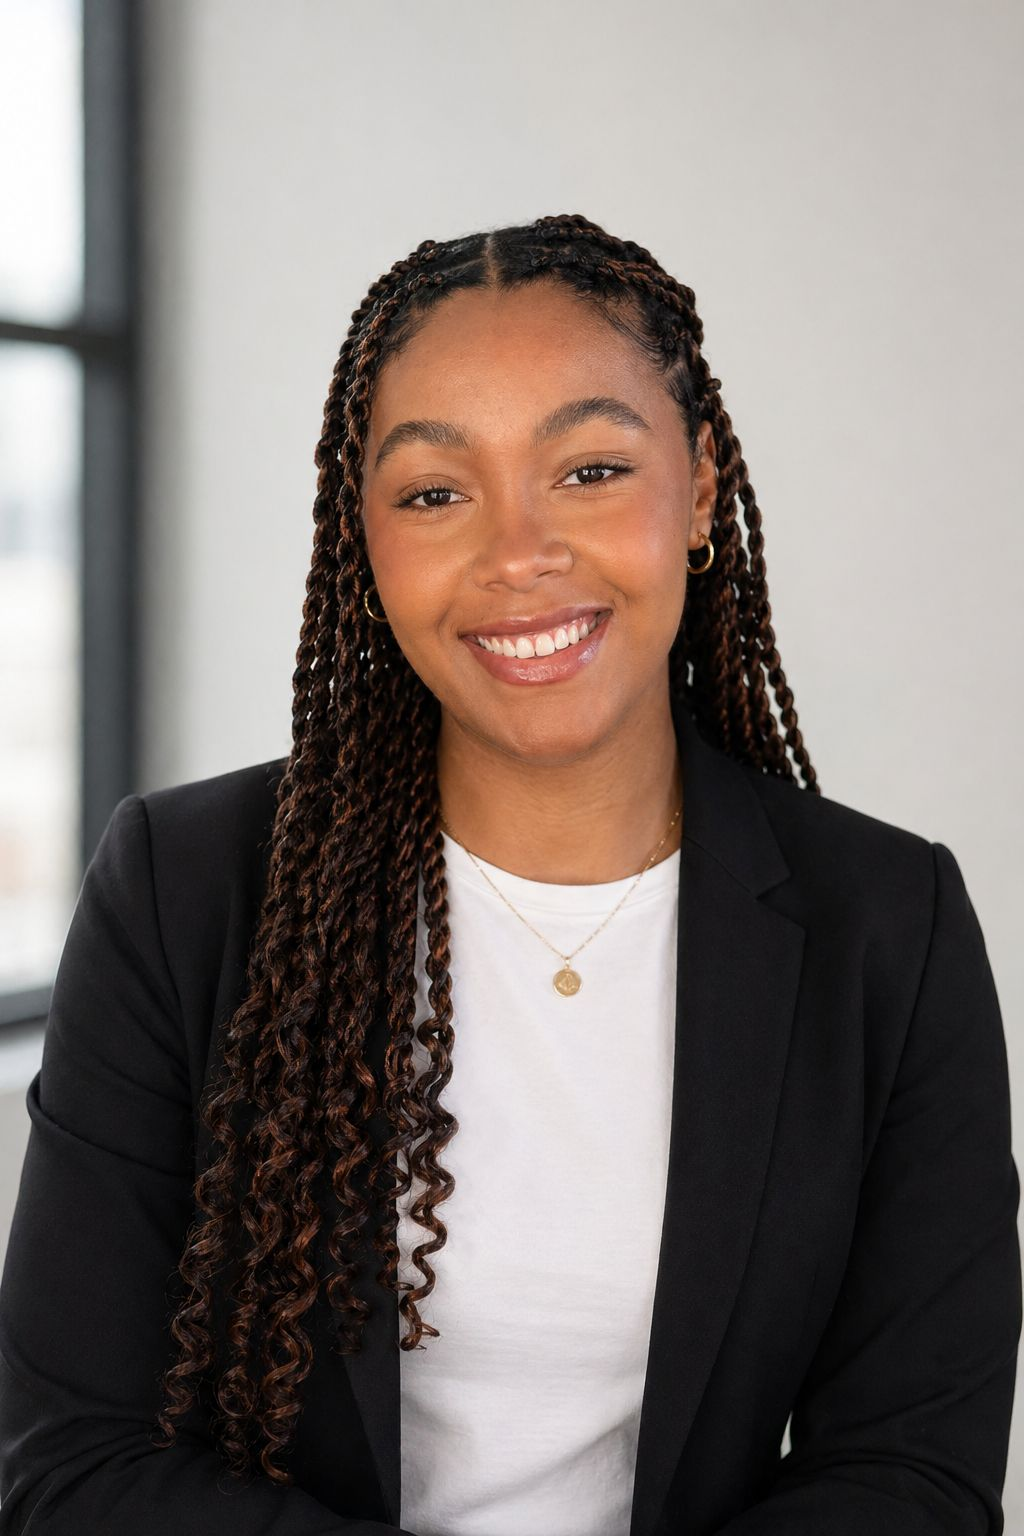
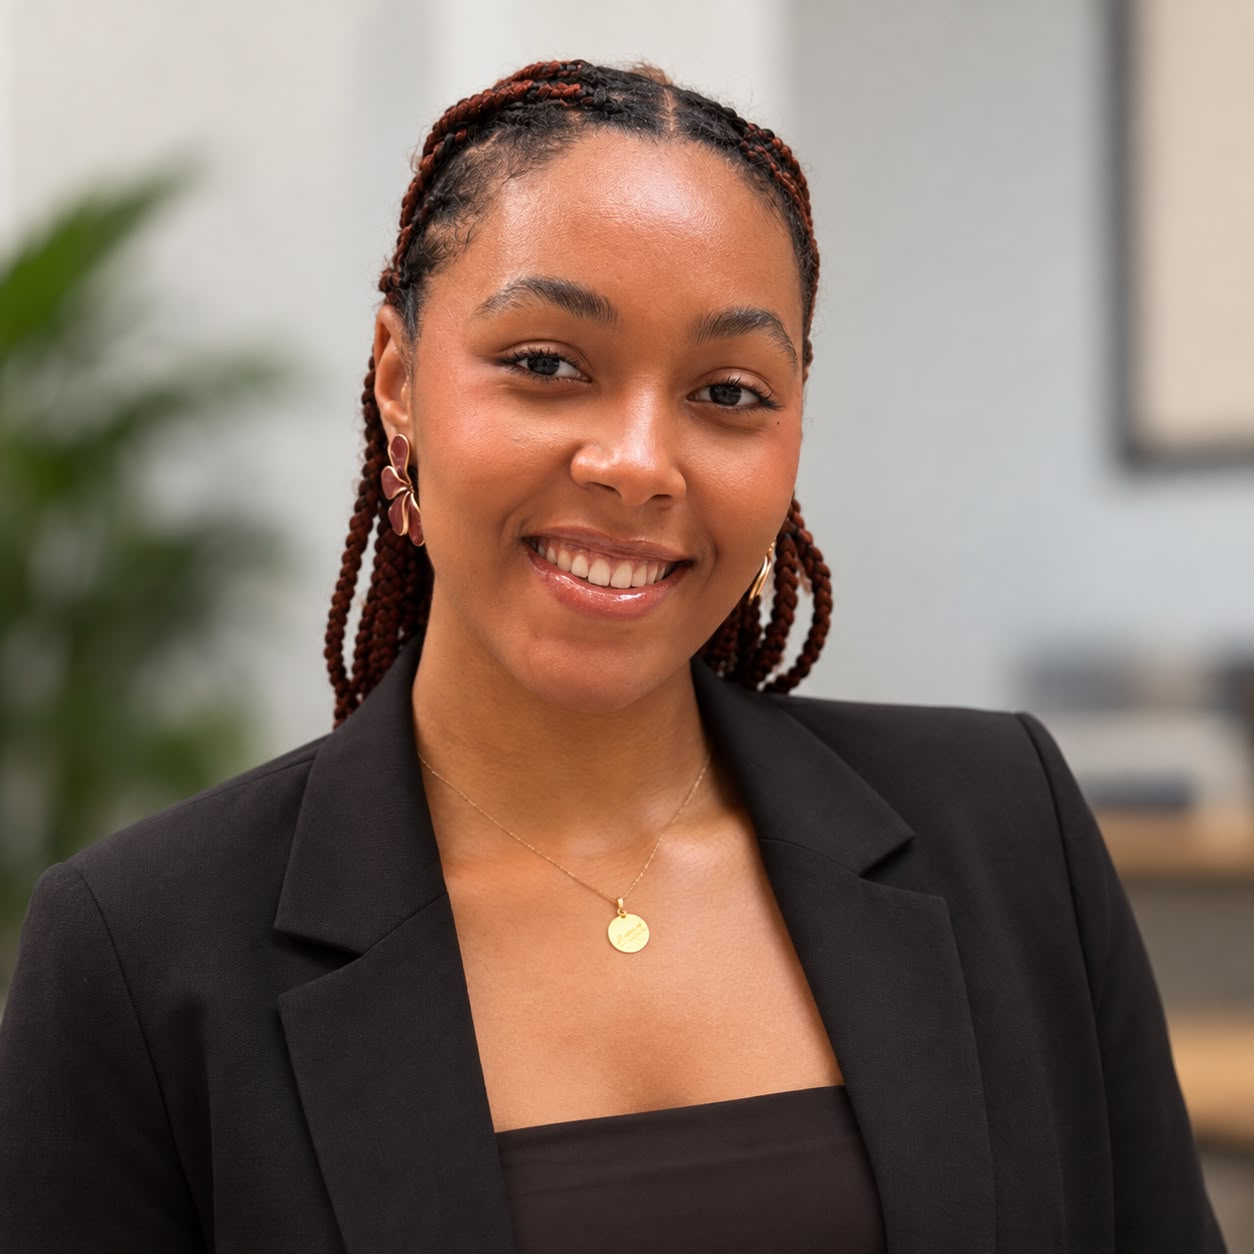
Mise à jour textes, photo de profil et suppression de l'indicateur Scroll (#1)
* Update hero/about/education texts, ACF end date and profile photo

Claude-Session: https://claude.ai/code/session_01LU1Fx7Scv2Moh3BpNmaaWe

* Remove hero scroll indicator

Claude-Session: https://claude.ai/code/session_01LU1Fx7Scv2Moh3BpNmaaWe

---------

diff --git a/index.html b/index.html
@@ -74,9 +74,6 @@
     .btn-magic:hover{transform:translateY(-3px) scale(1.03);box-shadow:0 16px 48px rgba(168,85,247,.35);}
     .btn-ghost{background:rgba(255,255,255,.07);border:1px solid rgba(255,255,255,.14);color:rgba(255,255,255,.8);backdrop-filter:blur(20px);}
     .btn-ghost:hover{background:rgba(255,255,255,.12);color:#fff;transform:translateY(-3px);}
-    .hero-scroll{position:absolute;bottom:36px;left:50%;transform:translateX(-50%);display:flex;flex-direction:column;align-items:center;gap:8px;color:rgba(255,255,255,.25);font-size:11px;letter-spacing:.12em;text-transform:uppercase;animation:fadeIn 1s ease 1.2s forwards;opacity:0;}
-    .scroll-bar{width:1.5px;height:52px;background:linear-gradient(to bottom,rgba(255,255,255,.5),transparent);animation:scrollAnim 2.4s ease-in-out infinite;}
-    @keyframes scrollAnim{0%,100%{transform:scaleY(1);opacity:.4;}50%{transform:scaleY(.5);opacity:.9;}}
 
     /* ── SECTIONS ── */
     .section{padding:110px 48px;max-width:1240px;margin:0 auto;}
@@ -402,16 +399,15 @@
 
   <section id="hero">
     <div class="hero-inner">
-      <div class="hero-badge"><span class="star">✦</span> <span data-i18n="hero.badge">Community Manager · Marketing · Expériences Client</span></div>
+      <div class="hero-badge"><span class="star">✦</span> <span data-i18n="hero.badge">Community Manager · Marketing · Expérience Client</span></div>
       <h1 class="hero-name">Sandrine<br><span class="gradient-text">Kellam Nonga</span></h1>
-      <p class="hero-sub" data-i18n="hero.sub">Master Marketing & Expériences Client · EMLV Paris La Défense</p>
+      <p class="hero-sub" data-i18n="hero.sub">À la recherche d'une nouvelle opportunité</p>
       <p class="hero-disney" data-i18n="hero.tagline">Passionnée de voyage · Mode · Maquillage · Disney</p>
       <div class="hero-cta">
         <a href="#projects" class="btn btn-magic" data-i18n="hero.cta1">✦ Découvrir mes projets</a>
         <a href="#contact-section" class="btn btn-ghost" data-i18n="hero.cta2">Me contacter →</a>
       </div>
     </div>
-    <div class="hero-scroll"><span>Scroll</span><div class="scroll-bar"></div></div>
   </section>
 
   <section class="section" id="about">
@@ -424,7 +420,7 @@
         </div>
       </div>
       <div class="about-content">
-        <p class="about-p" data-i18n-html="about.p1">Diplômée bac +3 de l'<strong>ESI Business School</strong> (Green, Social & Digital Business), j'ai suivi un Master <strong>Marketing & Expériences Client</strong> à l'EMLV (2024 → 2026).</p>
+        <p class="about-p" data-i18n-html="about.p1">Diplômée bac +3 de l'<strong>ESI Business School</strong> (Green, Social & Digital Business) et d'un master en <strong>marketing et expérience client</strong> à l'EMLV, je suis désormais à la recherche d'une nouvelle opportunité professionnelle.</p>
         <p class="about-p" data-i18n-html="about.p2">Intéressée par l'univers de la <strong>communication et du marketing</strong>, je crois qu'une marque mérite d'être racontée comme une histoire : avec soin, cohérence et émotion. Du branding au social media, en passant par le marketing direct, je mets cette philosophie au service de chaque projet.</p>
         <div class="about-tags">
           <span class="tag gold-tag">🏰 Disney lover</span>
@@ -433,7 +429,7 @@
           <span class="tag">Marketing digital</span>
           <span class="tag">Canva</span>
           <span class="tag">RSE</span>
-          <span class="tag" data-i18n="about.tag.exp">Expériences client</span>
+          <span class="tag" data-i18n="about.tag.exp">Expérience client</span>
           <span class="tag">Storytelling</span>
         </div>
         <div class="stats-row">
@@ -453,7 +449,7 @@
   <section class="section" id="experience">
     <div class="rev"><p class="s-label" data-i18n="exp.label">✦ Parcours professionnel</p><h2 class="s-title" data-i18n="exp.title">Expériences Professionnelles</h2></div>
     <div class="timeline">
-      <div class="ti rev" style="transition-delay:.05s"><div class="ti-dot"></div><div class="ti-card"><div class="ti-date" data-i18n="exp.acf.date">Septembre 2023 — 2026 · Alternance</div><div class="ti-company">Action contre la Faim — Montreuil</div><div class="ti-role" data-i18n="exp.acf.role">Assistante collecte 360 — Marketing direct</div><div class="ti-points"><div class="ti-pt" data-i18n="exp.acf.pt1">Gestion canal télémarketing : lancement et suivi de campagnes, scripts, guide d'objections</div><div class="ti-pt" data-i18n="exp.acf.pt2">Canal mailing : gestion campagnes print, briefs, vérification BAT/BAR</div><div class="ti-pt" data-i18n="exp.acf.pt3">Gestion financière : réalisation de DA, bons de commande, suivi budgétaire</div><div class="ti-pt" data-i18n="exp.acf.pt4">Refonte Welcome Pack, formation des équipes prestataires, statistiques hebdomadaires</div><div class="ti-pt" data-i18n="exp.acf.pt5">Outils : PowerPoint, Excel, Canva, UBW, Word</div></div></div></div>
+      <div class="ti rev" style="transition-delay:.05s"><div class="ti-dot"></div><div class="ti-card"><div class="ti-date" data-i18n="exp.acf.date">Septembre 2023 — Septembre 2026 · Alternance</div><div class="ti-company">Action contre la Faim — Montreuil</div><div class="ti-role" data-i18n="exp.acf.role">Assistante collecte 360 — Marketing direct</div><div class="ti-points"><div class="ti-pt" data-i18n="exp.acf.pt1">Gestion canal télémarketing : lancement et suivi de campagnes, scripts, guide d'objections</div><div class="ti-pt" data-i18n="exp.acf.pt2">Canal mailing : gestion campagnes print, briefs, vérification BAT/BAR</div><div class="ti-pt" data-i18n="exp.acf.pt3">Gestion financière : réalisation de DA, bons de commande, suivi budgétaire</div><div class="ti-pt" data-i18n="exp.acf.pt4">Refonte Welcome Pack, formation des équipes prestataires, statistiques hebdomadaires</div><div class="ti-pt" data-i18n="exp.acf.pt5">Outils : PowerPoint, Excel, Canva, UBW, Word</div></div></div></div>
       <div class="ti rev" style="transition-delay:.1s"><div class="ti-dot"></div><div class="ti-card"><div class="ti-date">Juin — Août 2023</div><div class="ti-company">VTCSR — Roissy-en-Brie</div><div class="ti-role" data-i18n="exp.vtcsr.role">Responsable administrative et communication</div><div class="ti-points"><div class="ti-pt" data-i18n="exp.vtcsr.pt1">Création d'une maquette de site web et cartes de visite</div><div class="ti-pt" data-i18n="exp.vtcsr.pt2">Gestion comptabilité, planning, démarchage et liaison bancaire</div><div class="ti-pt" data-i18n="exp.vtcsr.pt3">Outils : Editor X, Canva, Excel, plateformes VTC</div></div></div></div>
       <div class="ti rev" style="transition-delay:.15s"><div class="ti-dot"></div><div class="ti-card"><div class="ti-date" data-i18n="exp.aphp.date">Août 2022 · Stage</div><div class="ti-company">HU Paris Sud — APHP Kremlin-Bicêtre</div><div class="ti-role" data-i18n="exp.aphp.role">Assistante administrative</div><div class="ti-points"><div class="ti-pt" data-i18n="exp.aphp.pt1">Gestion administrative : envoi et réception de courriers</div><div class="ti-pt" data-i18n="exp.aphp.pt2">Gestion des dossiers patients via Orbis, Excel et Word</div></div></div></div>
       <div class="ti rev" style="transition-delay:.2s"><div class="ti-dot"></div><div class="ti-card"><div class="ti-date" data-i18n="exp.biotech.date">Juin — Juillet 2022 · Stage</div><div class="ti-company">BioTech USA — Claye-Souilly</div><div class="ti-role" data-i18n="exp.biotech.role">Vendeuse polyvalente stagiaire</div><div class="ti-points"><div class="ti-pt" data-i18n="exp.biotech.pt1">Conseil client, merchandising, facing, gestion de caisse</div><div class="ti-pt" data-i18n="exp.biotech.pt2">Gestion inventaire, commandes et livraisons (Point relais UPS)</div></div></div></div>
@@ -465,7 +461,7 @@
     <div class="rev"><p class="s-label" data-i18n="skills.label">✦ Savoir-faire</p><h2 class="s-title" data-i18n="skills.title">Outils & Compétences</h2></div>
     <div class="skills-grid">
       <div class="sk-card rev" style="transition-delay:.05s"><div class="sk-head"><div class="sk-icon">🎨</div><div class="sk-name" data-i18n="sk.design.name">Création & Design graphique</div></div><div class="sk-pills"><span class="pill g">Canva</span><span class="pill">Adobe Express</span><span class="pill">Editor X</span><span class="pill">WordPress</span><span class="pill" data-i18n="sk.charte">Charte graphique</span><span class="pill" data-i18n="sk.identity">Identité visuelle</span><span class="pill" data-i18n="sk.print">Supports print</span></div></div>
-      <div class="sk-card rev" style="transition-delay:.1s"><div class="sk-head"><div class="sk-icon">📱</div><div class="sk-name" data-i18n="sk.marketing.name">Marketing & Communication</div></div><div class="sk-pills"><span class="pill g">Community Management</span><span class="pill" data-i18n="sk.digital.mkt">Marketing digital</span><span class="pill" data-i18n="sk.direct.mkt">Marketing direct</span><span class="pill">Social Media</span><span class="pill">Branding</span><span class="pill">Storytelling</span><span class="pill" data-i18n="sk.rse">RSE</span><span class="pill" data-i18n="sk.exp.client">Expériences client</span></div></div>
+      <div class="sk-card rev" style="transition-delay:.1s"><div class="sk-head"><div class="sk-icon">📱</div><div class="sk-name" data-i18n="sk.marketing.name">Marketing & Communication</div></div><div class="sk-pills"><span class="pill g">Community Management</span><span class="pill" data-i18n="sk.digital.mkt">Marketing digital</span><span class="pill" data-i18n="sk.direct.mkt">Marketing direct</span><span class="pill">Social Media</span><span class="pill">Branding</span><span class="pill">Storytelling</span><span class="pill" data-i18n="sk.rse">RSE</span><span class="pill" data-i18n="sk.exp.client">Expérience client</span></div></div>
       <div class="sk-card rev" style="transition-delay:.15s"><div class="sk-head"><div class="sk-icon">💼</div><div class="sk-name" data-i18n="sk.office.name">Outils bureautiques</div></div><div class="sk-pills"><span class="pill g">Excel</span><span class="pill g">PowerPoint</span><span class="pill">Word</span><span class="pill">UBW</span><span class="pill b">Power BI</span><span class="pill" data-i18n="sk.budget">Gestion budgétaire</span><span class="pill">Pack Office</span></div></div>
       <div class="sk-card rev" style="transition-delay:.2s"><div class="sk-head"><div class="sk-icon">🌍</div><div class="sk-name" data-i18n="sk.languages.name">Langues & soft skills</div></div><div class="sk-pills"><span class="pill g" data-i18n="sk.lang.fr">Français — Natif</span><span class="pill b" data-i18n="skills.lang.en">Anglais — C1</span><span class="pill"> TOIEC - 965/990 </span><span class="pill" data-i18n="sk.lang.es">Espagnol — Intermédiaire</span><span class="pill" data-i18n="sk.oral">Communication orale</span><span class="pill" data-i18n="sk.problem">Résolution de problèmes</span><span class="pill" data-i18n="sk.project">Gestion de projet</span></div></div>
     </div>
@@ -474,7 +470,7 @@
   <section class="section" id="education">
     <div class="rev"><p class="s-label" data-i18n="edu.label">✦ Formation</p><h2 class="s-title" data-i18n="edu.title">Parcours académique</h2></div>
     <div class="edu-grid">
-      <div class="edu-card rev" style="transition-delay:.05s"><div class="edu-yr" data-i18n="edu.emlv.yr">2024 → 2026 · Cursus achevé</div><div class="edu-school">EMLV — Courbevoie</div><div class="edu-dip" data-i18n="edu.emlv.dip">Master Marketing & Expériences Client</div><div class="edu-detail" data-i18n="edu.emlv.detail">Marketing produits & services, innovation, design thinking, leviers marketing, stratégie omnicanale, négociations, management du retail, business ethics.</div><div class="edu-badge" data-i18n="edu.emlv.badge">✦ Master 2</div></div>
+      <div class="edu-card rev" style="transition-delay:.05s"><div class="edu-yr" data-i18n="edu.emlv.yr">2024 → 2026 · Cursus achevé</div><div class="edu-school">EMLV — Courbevoie</div><div class="edu-dip" data-i18n="edu.emlv.dip">Master Marketing & Expérience Client</div><div class="edu-detail" data-i18n="edu.emlv.detail">Marketing produits & services, innovation, design thinking, leviers marketing, stratégie omnicanale, négociations, management du retail, business ethics.</div><div class="edu-badge" data-i18n="edu.emlv.badge">✦ Master 2</div></div>
       <div class="edu-card rev" style="transition-delay:.1s"><div class="edu-yr" data-i18n="edu.esi.yr">2021 → 2024 · Diplômée</div><div class="edu-school">ESI Business School</div><div class="edu-dip">Bachelor Green, Social & Digital Business</div><div class="edu-detail" data-i18n="edu.esi.detail">Boulogne-Billancourt. Marketing opérationnel, management, RSE. Projets de groupe avec soutenances orales récurrentes.</div><div class="edu-badge" data-i18n="edu.esi.badge">✦ Bac +3 obtenu</div></div>
       <div class="edu-card rev" style="transition-delay:.15s"><div class="edu-yr" data-i18n="edu.ndf.yr">2006 → 2021 · Diplômée</div><div class="edu-school">Notre-Dame de France — Paris XIII</div><div class="edu-dip" data-i18n="edu.ndf.dip">Baccalauréat Général</div><div class="edu-detail" data-i18n="edu.ndf.detail">Spécialités : humanités, SES, LLCER. Voyages linguistiques en Angleterre et en Espagne.</div><div class="edu-badge" data-i18n="edu.ndf.badge">🏆 Mention Bien</div></div>
     </div>
@@ -493,7 +489,7 @@
     <div class="contact-glass rev">
       <span class="c-emoji">📞</span>
       <h3 class="c-title" data-i18n="contact.h3">Contacte-moi !</h3>
-      <p class="c-sub" data-i18n="contact.sub">Issue du Master Marketing & Expériences Client de l'EMLV, prête à apporter ma créativité et ma passion à votre équipe ✨</p>
+      <p class="c-sub" data-i18n="contact.sub">Issue du Master Marketing & Expérience Client de l'EMLV, prête à apporter ma créativité et ma passion à votre équipe ✨</p>
       <div class="c-items">
         <a href="tel:0782341807" class="c-item"><span>📞</span><span>07 82 34 18 07</span></a>
         <a href="mailto:sandrinekellamnonga@gmail.com" class="c-item"><span>✉</span><span>sandrinekellamnonga@gmail.com</span></a>
@@ -977,17 +973,17 @@ var I18N = {
     'nav.skills':     'Compétences',
     'nav.contact':    'Contact',
 
-    'hero.badge':   'Community Manager · Marketing · Expériences Client',
-    'hero.sub':     'Master Marketing & Expériences Client · EMLV Paris La Défense',
+    'hero.badge':   'Community Manager · Marketing · Expérience Client',
+    'hero.sub':     'À la recherche d\'une nouvelle opportunité',
     'hero.tagline': 'Passionnée de voyage · Mode · Maquillage · Disney',
     'hero.cta1':    '✦ Découvrir mes projets',
     'hero.cta2':    'Me contacter →',
 
     'about.label':    '✦ Qui suis-je',
     'about.title':    'Créative, ambitieuse, passionnée',
-    'about.p1':       'Diplômée bac +3 de l\'<strong>ESI Business School</strong> (Green, Social & Digital Business), j\'ai suivi un Master <strong>Marketing & Expériences Client</strong> à l\'EMLV (2024 → 2026).',
+    'about.p1':       'Diplômée bac +3 de l\'<strong>ESI Business School</strong> (Green, Social & Digital Business) et d\'un master en <strong>marketing et expérience client</strong> à l\'EMLV, je suis désormais à la recherche d\'une nouvelle opportunité professionnelle.',
     'about.p2':       'Intéressée par l\'univers de la <strong>communication et du marketing</strong>, je crois qu\'une marque mérite d\'être racontée comme une histoire : avec soin, cohérence et émotion. Du branding au social media, en passant par le marketing direct, je mets cette philosophie au service de chaque projet.',
-    'about.tag.exp':  'Expériences client',
+    'about.tag.exp':  'Expérience client',
     'stat.projects':  'Projets créatifs',
     'stat.experience':"Ans d'expérience",
     'stat.education': "Niveau d'études",
@@ -998,7 +994,7 @@ var I18N = {
 
     'exp.label':        '✦ Parcours professionnel',
     'exp.title':        'Expériences Professionnelles',
-    'exp.acf.date':     'Septembre 2023 — 2026 · Alternance',
+    'exp.acf.date':     'Septembre 2023 — Septembre 2026 · Alternance',
     'exp.acf.role':     'Assistante collecte 360 — Marketing direct',
     'exp.acf.pt1':      'Gestion canal télémarketing : lancement et suivi de campagnes, scripts, guide d\'objections',
     'exp.acf.pt2':      'Canal mailing : gestion campagnes print, briefs, vérification BAT/BAR',
@@ -1035,7 +1031,7 @@ var I18N = {
     'sk.digital.mkt':    'Marketing digital',
     'sk.direct.mkt':     'Marketing direct',
     'sk.rse':            'RSE',
-    'sk.exp.client':     'Expériences client',
+    'sk.exp.client':     'Expérience client',
     'sk.budget':         'Gestion budgétaire',
     'sk.lang.fr':        'Français — Natif',
     'sk.lang.es':        'Espagnol — Intermédiaire',
@@ -1046,7 +1042,7 @@ var I18N = {
     'edu.label':       '✦ Formation',
     'edu.title':       'Parcours académique',
     'edu.emlv.yr':     '2024 → 2026 · Cursus achevé',
-    'edu.emlv.dip':    'Master Marketing & Expériences Client',
+    'edu.emlv.dip':    'Master Marketing & Expérience Client',
     'edu.emlv.detail': 'Marketing produits & services, innovation, design thinking, leviers marketing, stratégie omnicanale, négociations, management du retail, business ethics.',
     'edu.emlv.badge':  '✦ Master 2',
     'edu.esi.yr':      '2021 → 2024 · Diplômée',
@@ -1065,7 +1061,7 @@ var I18N = {
     'contact.label': '✦ Contact',
     'contact.title': 'Travaillons ensemble',
     'contact.h3':    'Contacte-moi !',
-    'contact.sub':   'Issue du Master Marketing & Expériences Client de l\'EMLV, prête à apporter ma créativité et ma passion à votre équipe ✨',
+    'contact.sub':   'Issue du Master Marketing & Expérience Client de l\'EMLV, prête à apporter ma créativité et ma passion à votre équipe ✨',
 
     'gallery.pdf.label':     'Voir la carte',
     'gallery.pdf.hint':      '↗ Ouvrir dans un nouvel onglet',
@@ -1090,17 +1086,17 @@ var I18N = {
     'nav.skills':     'Skills',
     'nav.contact':    'Contact',
 
-    'hero.badge':   'Community Manager · Marketing · Customer Experiences',
-    'hero.sub':     'Master Marketing & Customer Experiences · EMLV Paris La Défense',
+    'hero.badge':   'Community Manager · Marketing · Customer Experience',
+    'hero.sub':     'Looking for a new opportunity',
     'hero.tagline': 'Passionate about travel · Fashion · Makeup · Disney',
     'hero.cta1':    '✦ Discover my projects',
     'hero.cta2':    'Contact me →',
 
     'about.label':    '✦ About me',
     'about.title':    'Creative, ambitious, passionate',
-    'about.p1':       'Graduate with a Bachelor\'s degree from <strong>ESI Business School</strong> (Green, Social & Digital Business), I completed a Master\'s in <strong>Marketing & Customer Experiences</strong> at EMLV (2024 → 2026).',
+    'about.p1':       'Holder of a Bachelor\'s degree from <strong>ESI Business School</strong> (Green, Social & Digital Business) and a Master\'s in <strong>Marketing & Customer Experience</strong> from EMLV, I am now looking for a new professional opportunity.',
     'about.p2':       'Interested in the world of <strong>communication and marketing</strong>, I believe a brand deserves to be told like a story: with care, consistency and emotion. From branding to social media, through direct marketing, I bring this philosophy to every project.',
-    'about.tag.exp':  'Customer Experiences',
+    'about.tag.exp':  'Customer Experience',
     'stat.projects':  'Creative Projects',
     'stat.experience':'Years of experience',
     'stat.education': 'Education level',
@@ -1111,7 +1107,7 @@ var I18N = {
 
     'exp.label':        '✦ Career',
     'exp.title':        'Professional Experiences',
-    'exp.acf.date':     'September 2023 — 2026 · Apprenticeship',
+    'exp.acf.date':     'September 2023 — September 2026 · Apprenticeship',
     'exp.acf.role':     '360 Fundraising Assistant — Direct Marketing',
     'exp.acf.pt1':      'Telemarketing channel management: campaign launch and monitoring, scripts, objection guide',
     'exp.acf.pt2':      'Mailing channel: print campaign management, briefs, BAT/BAR verification',
@@ -1148,7 +1144,7 @@ var I18N = {
     'sk.digital.mkt':    'Digital Marketing',
     'sk.direct.mkt':     'Direct Marketing',
     'sk.rse':            'CSR',
-    'sk.exp.client':     'Customer Experiences',
+    'sk.exp.client':     'Customer Experience',
     'sk.budget':         'Budget Management',
     'sk.lang.fr':        'French — Native',
     'sk.lang.es':        'Spanish — Intermediate',
@@ -1159,7 +1155,7 @@ var I18N = {
     'edu.label':       '✦ Education',
     'edu.title':       'Academic Background',
     'edu.emlv.yr':     '2024 → 2026 · Programme completed',
-    'edu.emlv.dip':    'Master Marketing & Customer Experiences',
+    'edu.emlv.dip':    'Master Marketing & Customer Experience',
     'edu.emlv.detail': 'Product & services marketing, innovation, design thinking, marketing levers, omnichannel strategy, negotiations, retail management, business ethics.',
     'edu.emlv.badge':  "✦ Master's 2",
     'edu.esi.yr':      '2021 → 2024 · Graduate',
@@ -1178,7 +1174,7 @@ var I18N = {
     'contact.label': '✦ Contact',
     'contact.title': "Let's work together",
     'contact.h3':    'Get in touch!',
-    'contact.sub':   "Completed the Master's programme in Marketing & Customer Experiences at EMLV, ready to bring my creativity and passion to your team ✨",
+    'contact.sub':   "Completed the Master's programme in Marketing & Customer Experience at EMLV, ready to bring my creativity and passion to your team ✨",
 
     'gallery.pdf.label':     'View menu',
     'gallery.pdf.hint':      '↗ Open in a new tab',
